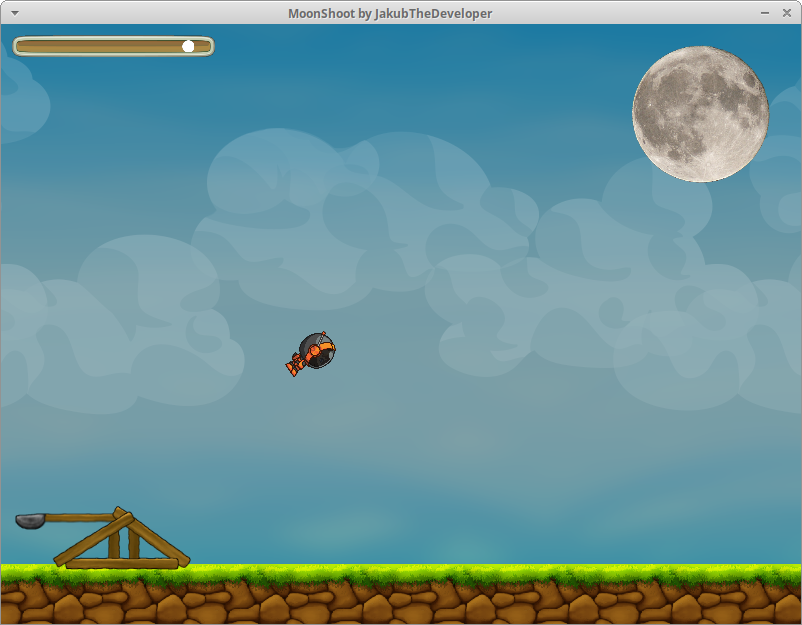
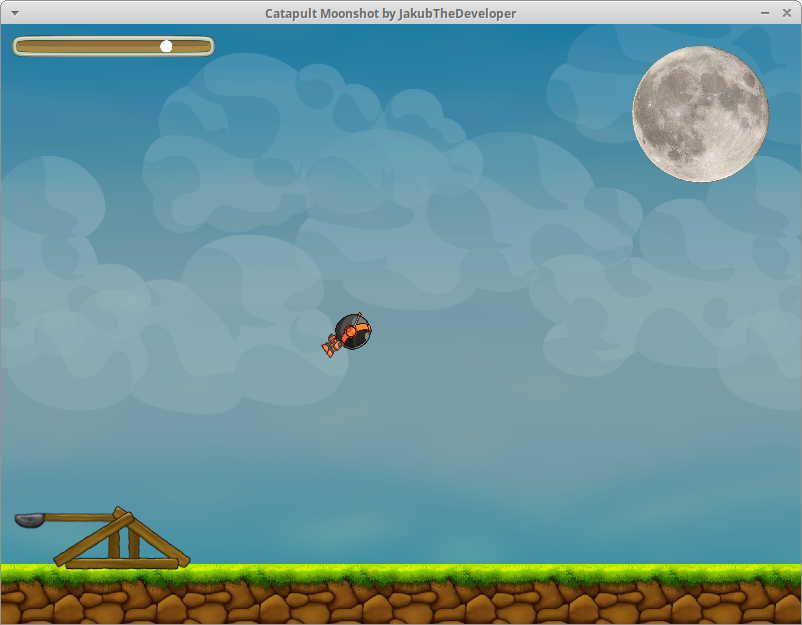
typo fix

diff --git a/main.py b/main.py
@@ -27,7 +27,7 @@ white = (255, 255, 255)
 black = (0, 0, 0)
 (width, height) = (800, 600) # Dimension of the window
 screen = pygame.display.set_mode((width, height)) # Making of the screen
-pygame.display.set_caption("MoonShoot by JakubTheDeveloper")
+pygame.display.set_caption("Catapult Moonshot by JakubTheDeveloper")
 background = pygame.image.load(os.path.join("images", "bg.png"))
 
 you_win_sound = pygame.mixer.Sound(os.path.join("sounds", "you-win.wav"))

diff --git a/src/menu.py b/src/menu.py
@@ -27,7 +27,7 @@ class Menu(object):
         ]
 
         self.title_font = pygame.font.Font(os.path.join("fonts", "upheavtt.ttf"), 36)
-        self.title = self.title_font.render("Catapult MoonShoot", True, (255, 255, 255))
+        self.title = self.title_font.render("Catapult Moonshot", True, (255, 255, 255))
 
         self.menu_font = pygame.font.SysFont('Verdana', 24)
 

diff --git a/README.md b/README.md
@@ -1,4 +1,4 @@
-# MoonShot
+# Catapult moonshot
 
 This project is a game for game jam [Game Off 2020 @ itch.io](https://itch.io/jam/game-off-2020).
 
